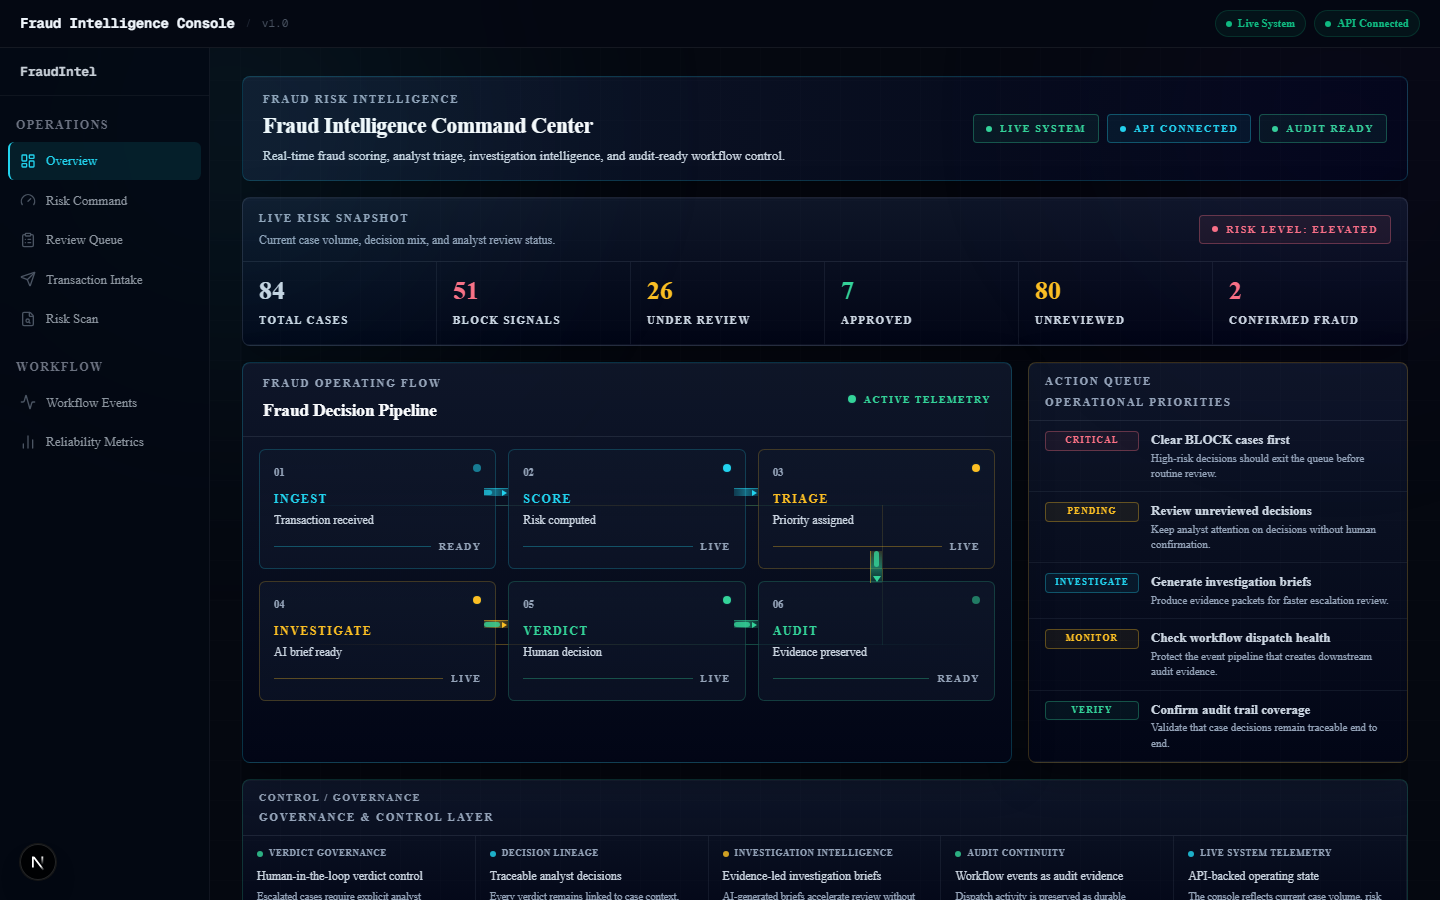
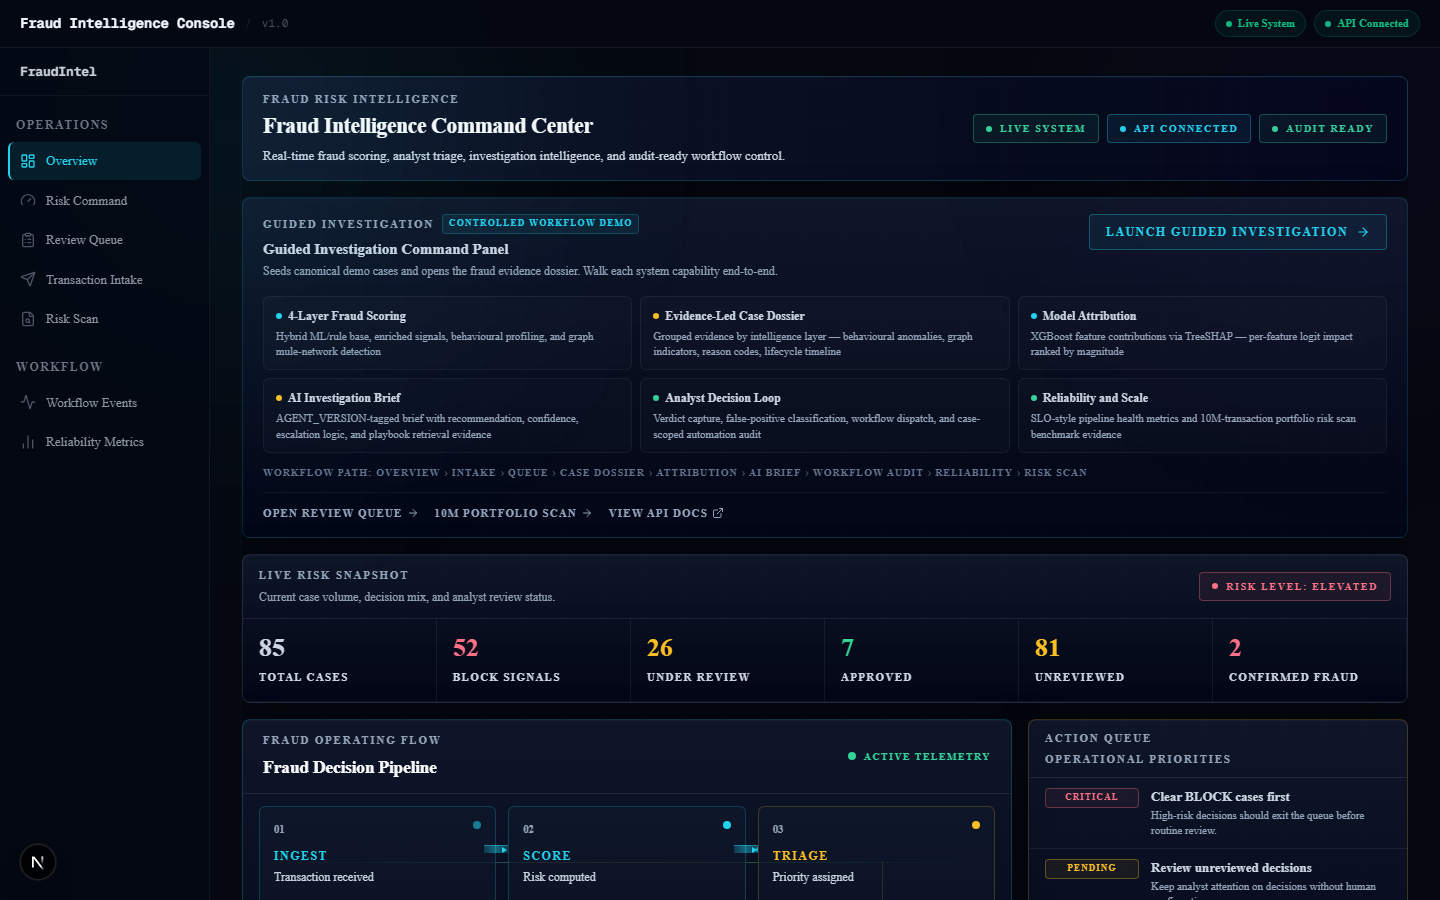
Refresh flagship screenshot evidence
Recaptures three stale screenshots against the Phase 20J-B and 20H
product state. Screenshot 01 now shows the Guided Investigation Command
Panel with Launch Guided Investigation CTA and six capability cards.
Screenshot 06 now shows Case 22 with the Model Attribution panel
(Baseline model feature contributions, XGBoost TreeSHAP, ranked bars).
Screenshot 07 now shows the post-attribution layout with Model Attribution
and AI Investigation panel both visible in the scrolled dossier view.
Dimensions preserved: 1440x900 / 1600x1400 / 1600x1600. Adds targeted
capture script scripts/capture_screenshots_20l.js for reproducibility.
No source code, frontend, backend, model, DB schema, or scan changes.

Changed region(s): [[0.1562, 0.2178, 1.0, 1.0], [0.75, 0.2489, 0.9688, 0.28], [0.5, 0.6844, 0.5938, 0.7467]]

diff --git a/scripts/capture_screenshots_20l.js b/scripts/capture_screenshots_20l.js
@@ -1,0 +1,305 @@
+#!/usr/bin/env node
+"use strict";
+
+/**
+ * Phase 20L — Targeted screenshot refresh for three stale screenshots:
+ *   01_overview_command_center.png  (stale: missing Guided Investigation Command Panel)
+ *   06_case_dossier_evidence.png    (stale: missing Model Attribution panel)
+ *   07_ai_investigation_panel.png   (stale: pre-attribution layout)
+ *
+ * Run from project root:
+ *   node scripts/capture_screenshots_20l.js
+ *
+ * Prerequisites:
+ *   - Docker Compose stack running:  docker compose up -d
+ *   - Frontend dev server running:   cd fraud-console && npm run dev
+ *   - Case 22 present in DB (canonical showcase case)
+ *   - API rebuilt with Phase 20H code (GET /cases/{case_id}/explain must return 200)
+ */
+
+const { chromium } = require("playwright");
+const fs   = require("fs");
+const path = require("path");
+
+const FRONTEND_URL    = "http://localhost:3000";
+const BACKEND_URL     = "http://localhost:8000";
+const SCREENSHOTS_DIR = path.join(__dirname, "..", "docs", "screenshots");
+
+// Timing constants
+const AFTER_NAV_MS    = 2000;
+const AFTER_SCROLL_MS = 1200;
+const CHART_WAIT_MS   = 2500;
+
+function log(msg)  { console.log(`[20L] ${msg}`); }
+function warn(msg) { console.warn(`[20L] WARN: ${msg}`); }
+function sep()     { console.log("[20L] " + "-".repeat(60)); }
+
+function sleep(ms) {
+  return new Promise((r) => setTimeout(r, ms));
+}
+
+async function apiGet(urlPath) {
+  try {
+    const resp = await fetch(`${BACKEND_URL}${urlPath}`, { signal: AbortSignal.timeout(10_000) });
+    if (!resp.ok) return null;
+    return await resp.json();
+  } catch {
+    return null;
+  }
+}
+
+async function nav(page, route) {
+  await page.goto(`${FRONTEND_URL}${route}`, { waitUntil: "networkidle" });
+  await sleep(AFTER_NAV_MS);
+}
+
+async function capture(page, filename, description) {
+  const dest = path.join(SCREENSHOTS_DIR, filename);
+  await page.screenshot({ path: dest, fullPage: false });
+  const stat = fs.statSync(dest);
+  log(`[OK] ${filename}  (${Math.round(stat.size / 1024)} KB)`);
+  log(`     ${description}`);
+}
+
+async function waitForText(page, text, timeoutMs = 15_000) {
+  try {
+    await page.getByText(text, { exact: false }).first().waitFor({ state: "visible", timeout: timeoutMs });
+    return true;
+  } catch {
+    return false;
+  }
+}
+
+async function scrollToElement(page, locator, extraPx = 0) {
+  try {
+    await locator.waitFor({ state: "visible", timeout: 10_000 });
+    await locator.scrollIntoViewIfNeeded();
+    if (extraPx !== 0) {
+      await page.evaluate((px) => window.scrollBy(0, px), extraPx);
+    }
+    await sleep(AFTER_SCROLL_MS);
+    return true;
+  } catch {
+    return false;
+  }
+}
+
+async function scrollToText(page, text, extraPx = 0) {
+  const el = page.getByText(text, { exact: false }).first();
+  return scrollToElement(page, el, extraPx);
+}
+
+// ---------------------------------------------------------------------------
+// Pre-flight checks
+// ---------------------------------------------------------------------------
+
+async function preflight() {
+  log("Checking frontend...");
+  try {
+    const r = await fetch(FRONTEND_URL, { signal: AbortSignal.timeout(8_000) });
+    if (!r.ok) throw new Error(`HTTP ${r.status}`);
+    log("  Frontend OK at " + FRONTEND_URL);
+  } catch (err) {
+    throw new Error(`Frontend not reachable: ${err.message}. Run: cd fraud-console && npm run dev`);
+  }
+
+  log("Checking backend health...");
+  const health = await apiGet("/health");
+  if (!health || health.status !== "ok") {
+    throw new Error(`Backend not healthy at ${BACKEND_URL}. Run: docker compose up -d`);
+  }
+  log("  Backend OK");
+
+  log("Checking explain endpoint (Phase 20H)...");
+  const explain = await apiGet("/cases/22/explain");
+  if (!explain || !explain.features) {
+    throw new Error(
+      "GET /cases/22/explain returned no data. " +
+      "Rebuild the API container: docker compose build api && docker compose up -d api"
+    );
+  }
+  log(`  Explain endpoint OK — ${explain.features.length} features returned`);
+
+  log("Checking canonical demo cases...");
+  const case22 = await apiGet("/case/22");
+  if (!case22) throw new Error("Case 22 not found. Run: POST /demo/seed or python scripts/demo_seed.py");
+  log(`  Case 22: decision=${case22.decision} score=${case22.risk_score}`);
+}
+
+// ---------------------------------------------------------------------------
+// Capture sequence
+// ---------------------------------------------------------------------------
+
+async function captureAll(browser) {
+  // -------------------------------------------------------------------------
+  // 01: Overview — Guided Investigation Command Panel
+  // Viewport 1440x900 — matches existing file dimensions
+  // The Guided Investigation Command Panel is the first content block after
+  // the page header, so it should be fully visible at the top of the viewport.
+  // -------------------------------------------------------------------------
+  sep();
+  log("01/03  Overview — Guided Investigation Command Panel");
+  log("       Viewport: 1440x900 (matching existing file)");
+
+  const ctx01  = await browser.newContext({ viewport: { width: 1440, height: 900 } });
+  const page01 = await ctx01.newPage();
+  page01.on("console", () => {});
+  page01.on("pageerror", () => {});
+
+  await nav(page01, "/");
+
+  // Wait for key elements confirming the Guided Investigation panel has rendered
+  const panelLoaded = await waitForText(page01, "Launch Guided Investigation", 12_000);
+  if (!panelLoaded) {
+    warn("'Launch Guided Investigation' CTA not found within timeout. Capturing current state.");
+  }
+
+  // Allow charts and KPI strip to settle
+  await sleep(CHART_WAIT_MS);
+
+  await capture(
+    page01,
+    "01_overview_command_center.png",
+    "Guided Investigation Command Panel: CTA, six capability cards, workflow path strip; KPI strip above"
+  );
+  await ctx01.close();
+
+  // -------------------------------------------------------------------------
+  // 06: Case Dossier — Model Attribution panel
+  // Viewport 1600x1400 — matches existing file dimensions
+  // Scroll so the Model Attribution panel (with contribution bars) is clearly
+  // visible. Some evidence context from the intelligence groups above is
+  // preserved in the viewport.
+  // -------------------------------------------------------------------------
+  sep();
+  log("06/03  Case Dossier — Model Attribution panel (case 22)");
+  log("       Viewport: 1600x1400 (matching existing file)");
+
+  const ctx06  = await browser.newContext({ viewport: { width: 1600, height: 1400 } });
+  const page06 = await ctx06.newPage();
+  page06.on("console", () => {});
+  page06.on("pageerror", () => {});
+
+  await nav(page06, "/cases/22");
+
+  // Wait for Model Attribution panel to load with feature data (not skeleton)
+  // We look for "Baseline model feature contributions" heading in the loaded state
+  const attrLoaded = await waitForText(page06, "Baseline model feature contributions", 15_000);
+  if (!attrLoaded) {
+    warn("Model Attribution heading not found. Panel may be in loading or error state.");
+    // Also check for contribution bars via the "Increases risk" legend
+    await waitForText(page06, "Increases risk", 5_000);
+  }
+
+  // Scroll the Model Attribution panel into view. Using the section label text
+  // "Model Attribution" as the anchor. Scroll up a bit (-100px) to show the
+  // section label and the evidence group above it.
+  const attrScrolled = await scrollToText(page06, "Baseline model feature contributions", -80);
+  if (!attrScrolled) {
+    warn("Could not scroll to Model Attribution — trying fallback scroll.");
+    await page06.evaluate(() => window.scrollBy(0, 900));
+    await sleep(AFTER_SCROLL_MS);
+  }
+
+  // Extra settle for bar animations
+  await sleep(800);
+
+  await capture(
+    page06,
+    "06_case_dossier_evidence.png",
+    "Case 22 Model Attribution: XGBoost TreeSHAP feature contributions ranked by magnitude with direction bars"
+  );
+  await ctx06.close();
+
+  // -------------------------------------------------------------------------
+  // 07: AI Investigation Panel
+  // Viewport 1600x1600 — matches existing file dimensions
+  // Navigate to case 22, scroll to AI Investigation section.
+  // Use existing investigation data only — no Ollama call.
+  // -------------------------------------------------------------------------
+  sep();
+  log("07/03  AI Investigation Panel (case 22)");
+  log("       Viewport: 1600x1600 (matching existing file)");
+
+  const ctx07  = await browser.newContext({ viewport: { width: 1600, height: 1600 } });
+  const page07 = await ctx07.newPage();
+  page07.on("console", () => {});
+  page07.on("pageerror", () => {});
+
+  await nav(page07, "/cases/22");
+
+  // Wait for AI investigation data to load
+  const invLoaded = await waitForText(page07, "Confirm Fraud", 20_000);
+  if (!invLoaded) {
+    warn("'Confirm Fraud' recommendation not found — investigation may not be COMPLETE.");
+    await waitForText(page07, "AI Investigation", 5_000);
+  }
+
+  // Scroll to the AI Investigation panel, backing up 80px to show the heading
+  const invScrolled = await scrollToText(page07, "AI Investigation", -80);
+  if (!invScrolled) {
+    warn("Could not scroll to AI Investigation — trying fallback.");
+    await page07.evaluate(() => window.scrollBy(0, 1400));
+    await sleep(AFTER_SCROLL_MS);
+  }
+
+  await sleep(600);
+
+  await capture(
+    page07,
+    "07_ai_investigation_panel.png",
+    "Case 22: AI Investigation panel — CONFIRM_FRAUD, HIGH confidence, risk factors, rationale, agent_version"
+  );
+  await ctx07.close();
+}
+
+// ---------------------------------------------------------------------------
+// Entry point
+// ---------------------------------------------------------------------------
+
+async function main() {
+  console.log("\nPhase 20L — Targeted Screenshot Refresh");
+  console.log("=".repeat(60));
+  console.log(`Frontend:     ${FRONTEND_URL}`);
+  console.log(`Backend:      ${BACKEND_URL}`);
+  console.log(`Output:       ${SCREENSHOTS_DIR}`);
+  console.log("=".repeat(60));
+  console.log("");
+
+  if (!fs.existsSync(SCREENSHOTS_DIR)) {
+    fs.mkdirSync(SCREENSHOTS_DIR, { recursive: true });
+  }
+
+  try {
+    await preflight();
+  } catch (err) {
+    console.error(`[20L] PRE-FLIGHT FAILED: ${err.message}`);
+    process.exit(1);
+  }
+
+  console.log("");
+  log("Launching Chromium...");
+  const browser = await chromium.launch({ headless: true });
+
+  try {
+    await captureAll(browser);
+  } catch (err) {
+    console.error(`[20L] CAPTURE FAILED: ${err.message}`);
+    if (err.stack) console.error(err.stack);
+    await browser.close();
+    process.exit(1);
+  }
+
+  await browser.close();
+
+  sep();
+  log("Screenshot refresh complete.");
+  console.log("=".repeat(60));
+  console.log("");
+  process.exit(0);
+}
+
+main().catch((err) => {
+  console.error(`[20L] Unhandled error: ${err.message}`);
+  process.exit(1);
+});
